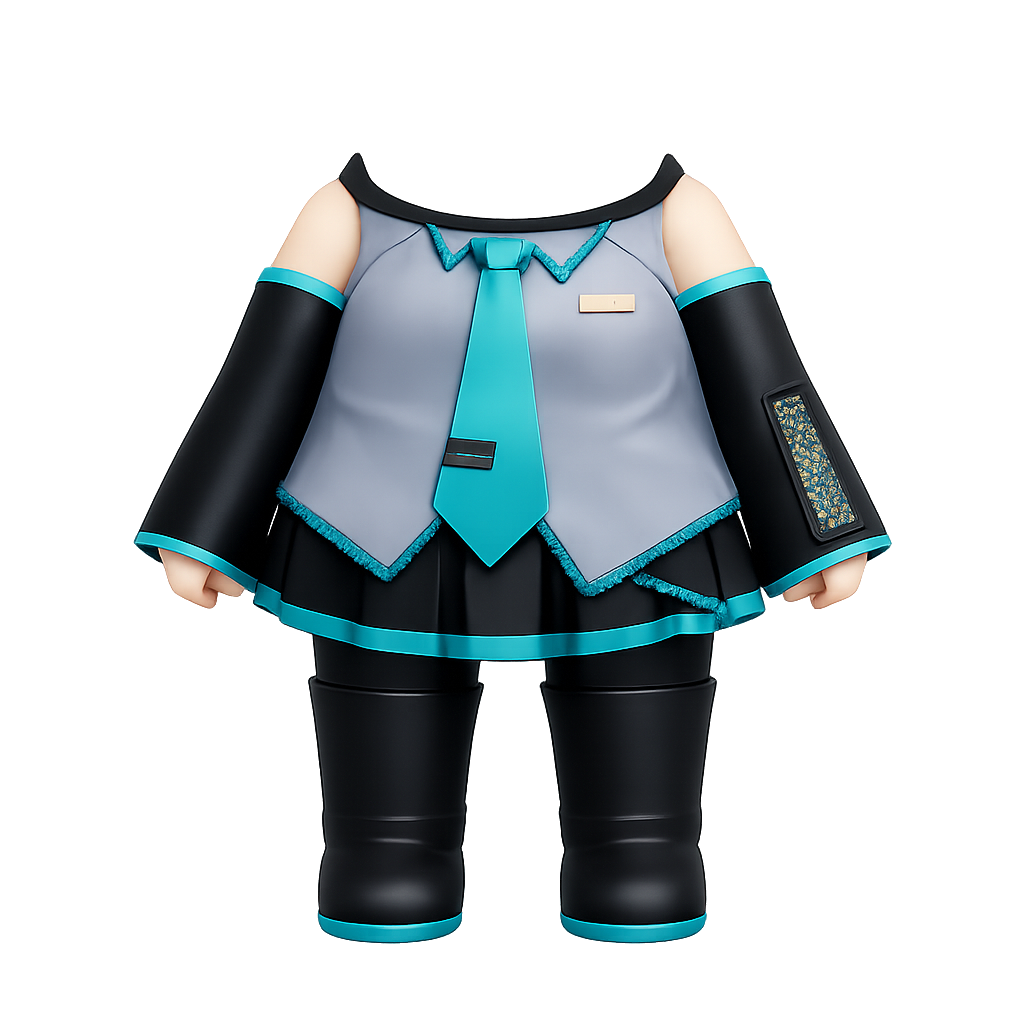
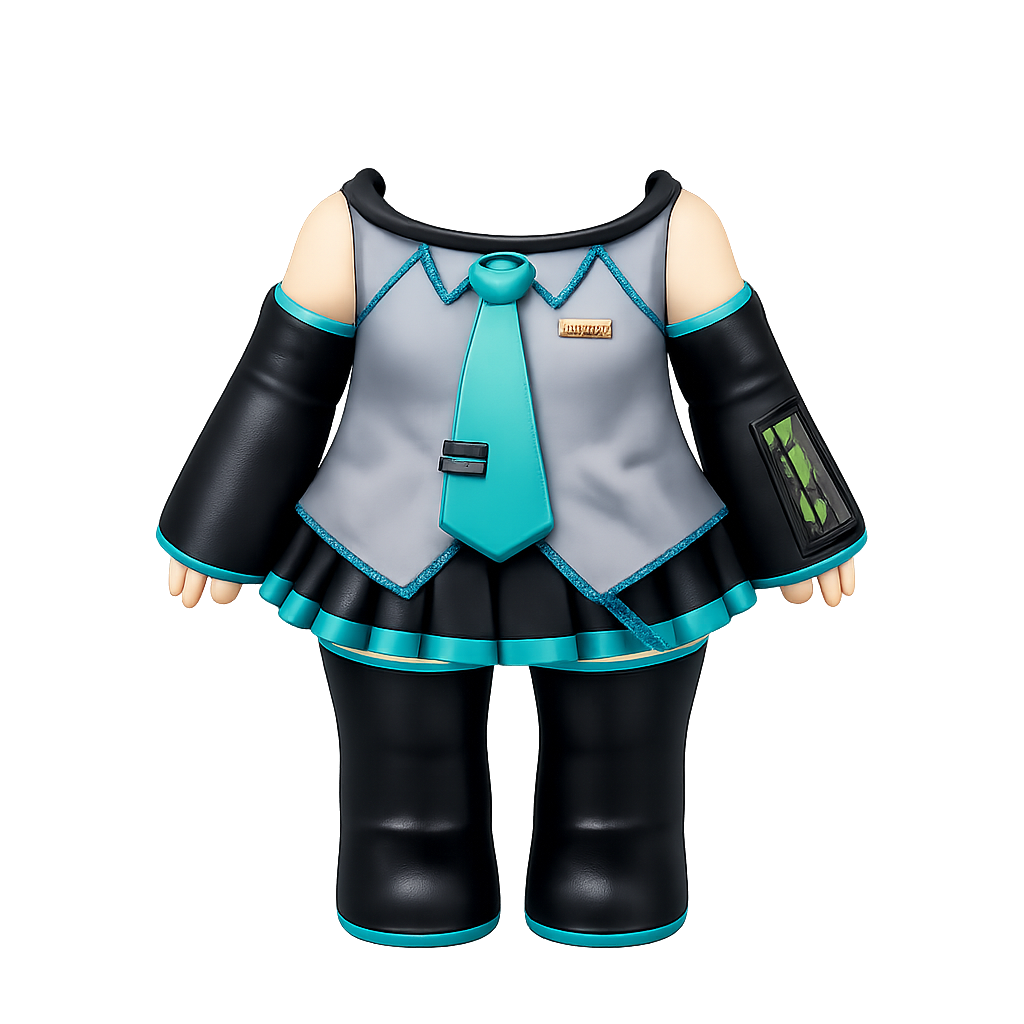
Miku: se tapan los pies de la niña entre las botas
Se veía la pierna gris de ella por el hueco entre las dos botas. El
prompt ahora pide las piernas JUNTAS, con las botas tocándose por dentro
desde la falda hasta el suelo. Medido: la fuga bajó de 4.3% a 0.3% de la
pierna de la niña.

Eso trajo un efecto secundario que había que resolver: con las piernas
juntas las botas salieron más largas, y con el A_BODY compartido sus pies
caían al 103.4% del stage contra el 99% de los otros trajes — se hundía
bajo la línea de piso donde se paran las mascotas. Se le calculó un anchor
propio resolviendo las DOS restricciones a la vez (que el cuello y los
pies caigan donde los del pingüino); el traje queda 8% más angosto, que no
se nota.

Es el cuarto caso del mismo patrón: una pieza generada suelta no puede
compartir anchor con las que copian el encuadre de una referencia.

Changed region(s): [[0.125, 0.1562, 0.875, 0.9375]]

diff --git a/js/cosmetics.js b/js/cosmetics.js
@@ -121,7 +121,14 @@
       { id: "conejo", label: "Conejo", preview: "🐰", love: 45, img: "assets/art/body-conejo.png", anchor: A_BODY },
       { id: "dino", label: "Dino", preview: "🦕", love: 55, img: "assets/art/body-dino.png", anchor: A_BODY },
       { id: "overol", label: "Overol", preview: "👖", love: 70, img: "assets/art/body-overol.png", anchor: A_BODY },
-      { id: "miku", label: "Diva", preview: "🎤", love: 70, img: "assets/art/body-miku.png", anchor: A_BODY },
+      // Anchor propio: para que las botas no dejaran ver los pies de la niña
+      // hubo que pedir las piernas juntas, y salieron más largas que el resto
+      // de los cuerpos — con A_BODY sus pies caían al 103% del stage y se
+      // hundía bajo la línea del piso donde se paran las mascotas. Este está
+      // resuelto para que el CUELLO y los PIES caigan donde los del pingüino
+      // (45.6% y 99%); el traje queda un 8% más angosto, que no se nota.
+      { id: "miku", label: "Diva", preview: "🎤", love: 70, img: "assets/art/body-miku.png",
+        anchor: { top: 34.1, left: 15, width: 70.1 } },
     ],
     hat: [
       { id: "none", label: "Ninguno", preview: "🚫" },

diff --git a/sw.js b/sw.js
@@ -1,6 +1,6 @@
 // Service worker: cache the app shell so Gugugaga works offline
 // Bump CACHE whenever the shell changes — activate() drops every older cache.
-const CACHE = "gugugaga-v15";
+const CACHE = "gugugaga-v16";
 const ASSETS = [
   "./",
   "./index.html",

diff --git a/tools/gen_art.py b/tools/gen_art.py
@@ -277,7 +277,12 @@ def _recipes():
             "the hem of the skirt all the way down to the feet, with NO gap and NO bare "
             "skin anywhere between the skirt and the boots. The boots are thick and chunky "
             "and cover the whole width of the legs, and the feet are fully enclosed in "
-            "them. Nothing of the legs or feet underneath may be visible. "
+            "them. "
+            "The figure stands with its LEGS TOGETHER: the two boots are side by side and "
+            "TOUCH each other along their inner edges from the skirt down to the ground, "
+            "leaving NO opening, NO hole and NO empty space between the legs — the whole "
+            "area below the skirt is solid black boot. Nothing at all may be visible "
+            "between the two legs. "
             "Chibi proportions: short and chunky limbs, not slender. "
             "Do not change the size or position of the neck opening. No head, no face, "
             "no hair, no character. Isolated object, centered, transparent background, "

diff --git a/tools/preview.py b/tools/preview.py
@@ -51,7 +51,7 @@ CATALOG = {
         "conejo": ("body-conejo.png", A_BODY),
         "dino": ("body-dino.png", A_BODY),
         "overol": ("body-overol.png", A_BODY),
-        "miku": ("body-miku.png", A_BODY),
+        "miku": ("body-miku.png", {"top": 34.1, "left": 15, "width": 70.1}),
     },
     "head": {
         "penguin": ("head-penguin.png", A_HEAD),
